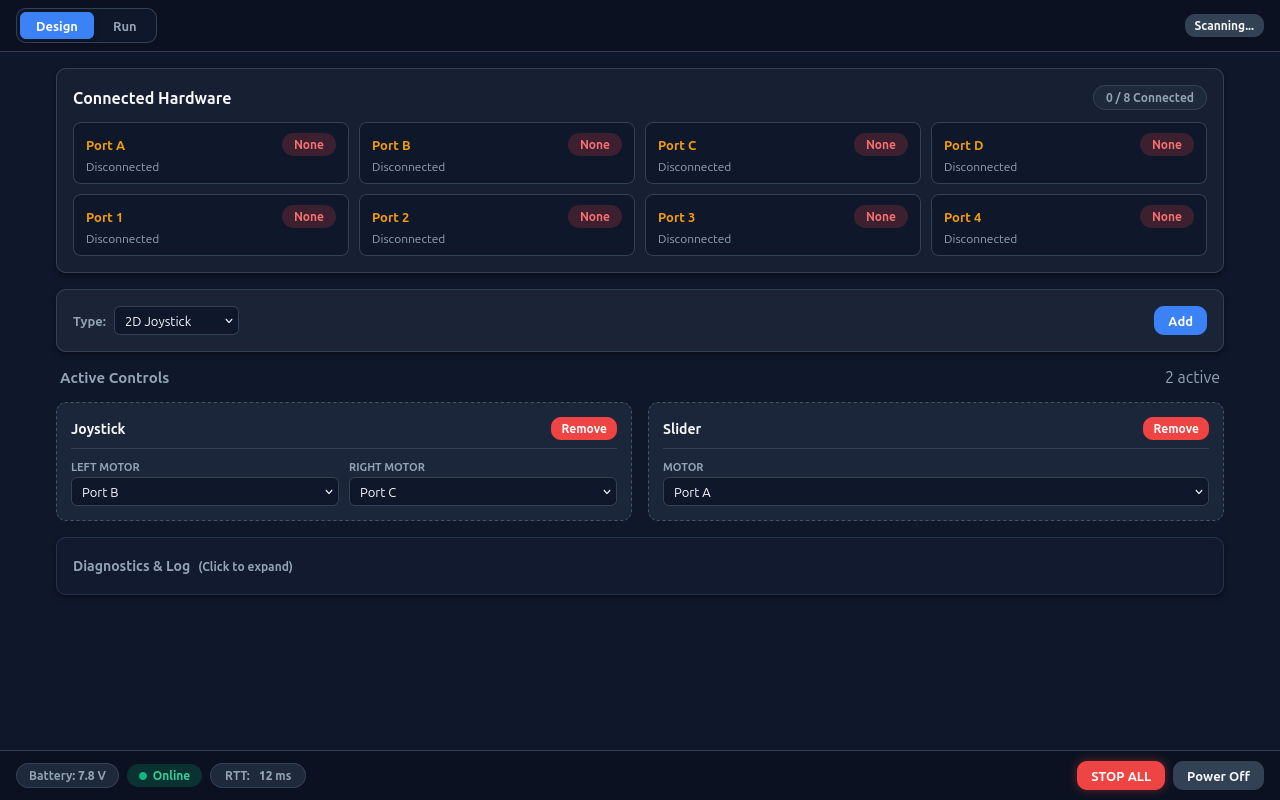
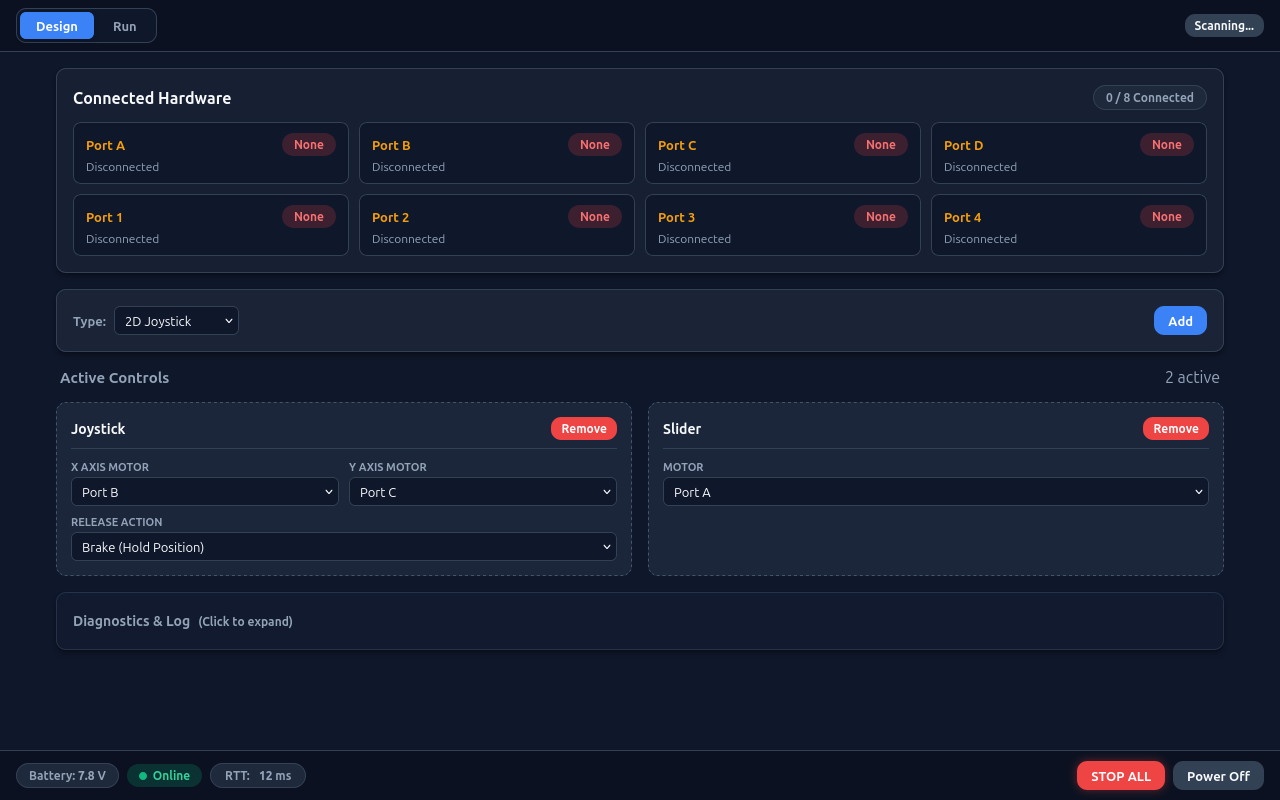
feat(joystick): implement independent 2-axis motor control, release action toggle, and 90% widget fill

diff --git a/web_assets/app.js b/web_assets/app.js
@@ -43,7 +43,12 @@ class EV3App {
                     this.widgets = parsed.map(w => {
                         const base = { id: w.id, type: w.type };
                         if (w.type === "joystick") {
-                            return { ...base, leftPort: w.leftPort ?? "B", rightPort: w.rightPort ?? "C" };
+                            return {
+                                ...base,
+                                xPort: w.xPort ?? w.leftPort ?? "B",
+                                yPort: w.yPort ?? w.rightPort ?? "C",
+                                stopAction: w.stopAction ?? "brake"
+                            };
                         }
                         if (w.type === "slider") {
                             return { ...base, port: w.port ?? "A" };
@@ -66,7 +71,7 @@ class EV3App {
 
     loadDefaultWidgets() {
         this.widgets = [
-            { id: "joy", type: "joystick", leftPort: "B", rightPort: "C" },
+            { id: "joy", type: "joystick", xPort: "B", yPort: "C", stopAction: "brake" },
             { id: "slider", type: "slider", port: "A" }
         ];
         this.saveWidgets();
@@ -267,7 +272,7 @@ class EV3App {
     addWidget(type) {
         const id = `w_${Date.now()}`;
         const templates = {
-            joystick: { id, type: "joystick", leftPort: "B", rightPort: "C" },
+            joystick: { id, type: "joystick", xPort: "B", yPort: "C", stopAction: "brake" },
             slider: { id, type: "slider", port: "A" },
             button: { id, type: "button", port: "A", action: "momentary", degrees: 90 },
             sensor: { id, type: "sensor", port: "1", mode: "TOUCH" }
@@ -307,12 +312,19 @@ class EV3App {
         if (w.type === "joystick") {
             fields = `
                 <div class="widget-config-field">
-                    <label>Left Motor</label>
-                    <select class="field-left-port" data-id="${w.id}">${this.portOptions(w.leftPort)}</select>
+                    <label>X Axis Motor</label>
+                    <select class="field-x-port" data-id="${w.id}">${this.portOptions(w.xPort)}</select>
                 </div>
                 <div class="widget-config-field">
-                    <label>Right Motor</label>
-                    <select class="field-right-port" data-id="${w.id}">${this.portOptions(w.rightPort)}</select>
+                    <label>Y Axis Motor</label>
+                    <select class="field-y-port" data-id="${w.id}">${this.portOptions(w.yPort)}</select>
+                </div>
+                <div class="widget-config-field full-width">
+                    <label>Release Action</label>
+                    <select class="field-stop-action" data-id="${w.id}">
+                        <option value="brake" ${w.stopAction === "brake" ? "selected" : ""}>Brake (Hold Position)</option>
+                        <option value="coast" ${w.stopAction === "coast" ? "selected" : ""}>Coast (Free Spin)</option>
+                    </select>
                 </div>
             `;
         } else if (w.type === "slider") {
@@ -390,8 +402,9 @@ class EV3App {
             });
         };
 
-        bindField(".field-left-port", "leftPort");
-        bindField(".field-right-port", "rightPort");
+        bindField(".field-x-port", "xPort");
+        bindField(".field-y-port", "yPort");
+        bindField(".field-stop-action", "stopAction");
         bindField(".field-port", "port");
         bindField(".field-action", "action");
         bindField(".field-degrees", "degrees", Number);
@@ -414,7 +427,7 @@ class EV3App {
 
     renderRunCard(w) {
         const sizeClass = w.type === "joystick" ? "run-card-2x2" : "run-card-2x1";
-        const portBadge = w.type === "joystick" ? `Ports ${w.leftPort}+${w.rightPort}` : `Port ${w.port}`;
+        const portBadge = w.type === "joystick" ? `X: Port ${w.xPort} | Y: Port ${w.yPort}` : `Port ${w.port}`;
         const typeLabels = { joystick: "Joystick", slider: "Slider", button: "Button", sensor: "Sensor" };
         const cardTitle = typeLabels[w.type] ?? w.type;
         const portAttr = (w.type === "slider" || w.type === "button")
@@ -489,7 +502,7 @@ class EV3App {
         });
     }
 
-    // Maps touch displacement into differential steering velocities.
+    // Maps 2D touch displacement directly to X and Y motor velocities.
     initJoystick(w) {
         const boundary = document.getElementById(`joy-boundary-${w.id}`);
         const knob = document.getElementById(`joy-knob-${w.id}`);
@@ -520,13 +533,14 @@ class EV3App {
 
             this.throttle(`joy_${w.id}`, 66, () => {
                 const maxSpeed = 1000;
-                const leftSpeed = clamp(Math.round((normY + normX) * maxSpeed), -maxSpeed, maxSpeed);
-                const rightSpeed = clamp(Math.round((normY - normX) * maxSpeed), -maxSpeed, maxSpeed);
-                this.apiPost("/api/tank-drive", {
-                    left_port: w.leftPort,
-                    right_port: w.rightPort,
-                    left_speed: leftSpeed,
-                    right_speed: rightSpeed
+                const xSpeed = clamp(Math.round(normX * maxSpeed), -maxSpeed, maxSpeed);
+                const ySpeed = clamp(Math.round(normY * maxSpeed), -maxSpeed, maxSpeed);
+                this.apiPost("/api/joystick", {
+                    x_port: w.xPort,
+                    y_port: w.yPort,
+                    x_speed: xSpeed,
+                    y_speed: ySpeed,
+                    stop_action: w.stopAction || "brake"
                 }).catch(() => {});
             });
         };
@@ -544,11 +558,12 @@ class EV3App {
                 entry.timer = null;
             }
 
-            this.apiPost("/api/tank-drive", {
-                left_port: w.leftPort,
-                right_port: w.rightPort,
-                left_speed: 0,
-                right_speed: 0
+            this.apiPost("/api/joystick", {
+                x_port: w.xPort,
+                y_port: w.yPort,
+                x_speed: 0,
+                y_speed: 0,
+                stop_action: w.stopAction || "brake"
             }).catch(() => {});
         };
 

diff --git a/web_assets/style.css b/web_assets/style.css
@@ -466,13 +466,17 @@ body {
     align-items: center;
     justify-content: center;
     flex: 1;
-    padding: 4px 0;
+    min-height: 0;
+    padding: 2px 0;
     touch-action: none;
 }
 
 .joystick-boundary {
-    width: clamp(150px, 42vw, 200px);
-    height: clamp(150px, 42vw, 200px);
+    width: clamp(220px, 70vw, 300px);
+    height: clamp(220px, 70vw, 300px);
+    max-width: 90%;
+    max-height: 90%;
+    aspect-ratio: 1 / 1;
     border-radius: 50%;
     background: radial-gradient(circle, #1e293b 0%, #0f172a 100%);
     border: 2px solid #475569;
@@ -503,14 +507,14 @@ body {
 }
 
 .joystick-knob {
-    width: 56px;
-    height: 56px;
+    width: 60px;
+    height: 60px;
     border-radius: 50%;
     background: radial-gradient(circle at 35% 35%, #60a5fa 0%, #2563eb 80%);
     border: 2px solid #93c5fd;
     position: absolute;
-    top: calc(50% - 28px);
-    left: calc(50% - 28px);
+    top: calc(50% - 30px);
+    left: calc(50% - 30px);
     cursor: grab;
     touch-action: none;
     box-shadow: 0 4px 10px rgba(0, 0, 0, 0.4);

diff --git a/src/controller.rs b/src/controller.rs
@@ -546,22 +546,31 @@ impl MotorController {
         }
     }
 
-    pub fn tank_drive(&self, left_port: &str, right_port: &str, left_speed: i32, right_speed: i32) -> Result<(), String> {
+    pub fn joystick_drive(&self, x_port: &str, y_port: &str, x_speed: i32, y_speed: i32, stop_action: Option<&str>) -> Result<(), String> {
+        let stop_act = stop_action.unwrap_or("brake");
         if let Ok(mut wd) = self.watchdog.lock() {
             wd.last_tank_drive = Some(Instant::now());
-            wd.tank_drive_ports = (left_port.to_string(), right_port.to_string());
-            wd.tank_drive_active = left_speed != 0 || right_speed != 0;
+            wd.tank_drive_ports = (x_port.to_string(), y_port.to_string());
+            wd.tank_drive_active = x_speed != 0 || y_speed != 0;
         }
 
-        if left_speed == 0 && right_speed == 0 {
-            self.stop(left_port, Some("brake".into()))?;
-            self.stop(right_port, Some("brake".into()))?;
-            return Ok(());
+        if x_speed == 0 {
+            self.stop(x_port, Some(stop_act.into()))?;
+        } else {
+            self.raw_run_forever(x_port, x_speed)?;
         }
 
-        self.raw_run_forever(left_port, left_speed)?;
-        self.raw_run_forever(right_port, right_speed)?;
+        if y_speed == 0 {
+            self.stop(y_port, Some(stop_act.into()))?;
+        } else {
+            self.raw_run_forever(y_port, y_speed)?;
+        }
+
         Ok(())
+    }
+
+    pub fn tank_drive(&self, left_port: &str, right_port: &str, left_speed: i32, right_speed: i32) -> Result<(), String> {
+        self.joystick_drive(left_port, right_port, left_speed, right_speed, Some("brake"))
     }
 
     pub fn emergency_stop(&self) -> Result<(), String> {
@@ -697,5 +706,39 @@ mod tests {
         assert_eq!(rescan.sensors.len(), 4);
         assert!(rescan.motors.iter().any(|m| m.port == "A"));
         assert!(rescan.motors.iter().any(|m| m.port == "B"));
+    }
+
+    #[test]
+    fn test_controller_joystick_independent_axes() {
+        let controller = MotorController::new(true, 15);
+        // Move only X axis
+        controller.joystick_drive("B", "C", 600, 0, Some("coast")).unwrap();
+        thread::sleep(Duration::from_millis(40));
+
+        let status = controller.get_system_status();
+        let b = status.motors.iter().find(|m| m.port == "B").unwrap();
+        let c = status.motors.iter().find(|m| m.port == "C").unwrap();
+        assert_eq!(b.speed, 600);
+        assert_eq!(c.speed, 0);
+
+        // Move only Y axis
+        controller.joystick_drive("B", "C", 0, -400, Some("brake")).unwrap();
+        thread::sleep(Duration::from_millis(40));
+
+        let status2 = controller.get_system_status();
+        let b2 = status2.motors.iter().find(|m| m.port == "B").unwrap();
+        let c2 = status2.motors.iter().find(|m| m.port == "C").unwrap();
+        assert_eq!(b2.speed, 0);
+        assert_eq!(c2.speed, -400);
+
+        // Center joystick (stop both)
+        controller.joystick_drive("B", "C", 0, 0, Some("coast")).unwrap();
+        thread::sleep(Duration::from_millis(40));
+
+        let status3 = controller.get_system_status();
+        let b3 = status3.motors.iter().find(|m| m.port == "B").unwrap();
+        let c3 = status3.motors.iter().find(|m| m.port == "C").unwrap();
+        assert_eq!(b3.speed, 0);
+        assert_eq!(c3.speed, 0);
     }
 }

diff --git a/src/web/router.rs b/src/web/router.rs
@@ -224,14 +224,15 @@ impl Router {
                 }
             }
 
-            // Tank Drive Endpoint
-            (Method::Post, "/api/tank-drive") => {
-                match self.read_json_body::<TankDrivePayload>(&mut request) {
+            // 2D Joystick Endpoint (and legacy /api/tank-drive alias)
+            (Method::Post, "/api/joystick") | (Method::Post, "/api/tank-drive") => {
+                match self.read_json_body::<JoystickPayload>(&mut request) {
                     Ok(payload) => {
-                        let left_port = payload.left_port.as_deref().unwrap_or("B");
-                        let right_port = payload.right_port.as_deref().unwrap_or("C");
-                        match self.controller.tank_drive(left_port, right_port, payload.left_speed, payload.right_speed) {
-                            Ok(_) => self.respond_json(request, StatusCode(200), &ApiResponse::ok("Tank drive command dispatched")),
+                        let (x_port, y_port) = payload.resolve_ports();
+                        let (x_speed, y_speed) = payload.resolve_speeds();
+                        let stop_action = payload.resolve_stop_action();
+                        match self.controller.joystick_drive(&x_port, &y_port, x_speed, y_speed, Some(stop_action)) {
+                            Ok(_) => self.respond_json(request, StatusCode(200), &ApiResponse::ok("Joystick command dispatched")),
                             Err(e) => self.respond_json(request, StatusCode(500), &ApiResponse::<()>::err(e)),
                         }
                     }

diff --git a/src/web/handlers.rs b/src/web/handlers.rs
@@ -1,13 +1,41 @@
 use serde::{Deserialize, Serialize};
 use crate::sysfs::MotorStatus;
 
-#[derive(Debug, Deserialize, Serialize)]
-pub struct TankDrivePayload {
+#[derive(Debug, Clone, Deserialize, Serialize, Default)]
+pub struct JoystickPayload {
+    pub x_port: Option<String>,
+    pub y_port: Option<String>,
+    pub x_speed: Option<i32>,
+    pub y_speed: Option<i32>,
+    pub stop_action: Option<String>,
     pub left_port: Option<String>,
     pub right_port: Option<String>,
-    pub left_speed: i32,
-    pub right_speed: i32,
+    pub left_speed: Option<i32>,
+    pub right_speed: Option<i32>,
 }
+
+impl JoystickPayload {
+    pub fn resolve_ports(&self) -> (String, String) {
+        let x = self.x_port.as_ref().or(self.left_port.as_ref()).and_then(|s| normalize_port_name(s)).unwrap_or_else(|| "B".to_string());
+        let y = self.y_port.as_ref().or(self.right_port.as_ref()).and_then(|s| normalize_port_name(s)).unwrap_or_else(|| "C".to_string());
+        (x, y)
+    }
+
+    pub fn resolve_speeds(&self) -> (i32, i32) {
+        let sx = self.x_speed.or(self.left_speed).unwrap_or(0);
+        let sy = self.y_speed.or(self.right_speed).unwrap_or(0);
+        (sx, sy)
+    }
+
+    pub fn resolve_stop_action(&self) -> &str {
+        match self.stop_action.as_deref() {
+            Some("coast") => "coast",
+            Some("hold") => "hold",
+            _ => "brake",
+        }
+    }
+}
+
 
 #[derive(Debug, Clone, Deserialize, Serialize, Default)]
 pub struct PortCommandPayload {

diff --git a/docs/api.md b/docs/api.md
@@ -67,6 +67,8 @@ curl -X POST http://<ip>/api/port/3 \
 
 | Method | Endpoint | Payload | Description |
 | :--- | :--- | :--- | :--- |
+| `POST` | `/api/joystick` | `{"x_port":"B","y_port":"C","x_speed":400,"y_speed":-200,"stop_action":"brake"}` | **2D Joystick Control:** Dispatches independent X and Y motor velocities with watchdog protection. |
+| `POST` | `/api/tank-drive` | `{"left_port":"B","right_port":"C","left_speed":400,"right_speed":400}` | Alias for `/api/joystick`. |
 | `POST` | `/api/rescan` | None | Triggers immediate hardware discovery on all 8 ports. |
 | `POST` | `/api/estop` | None | **Emergency Stop:** Stops all motors immediately with brake action and sets LEDs to red. |
 | `POST` | `/api/emergency-stop` | None | Alias for `/api/estop`. |
